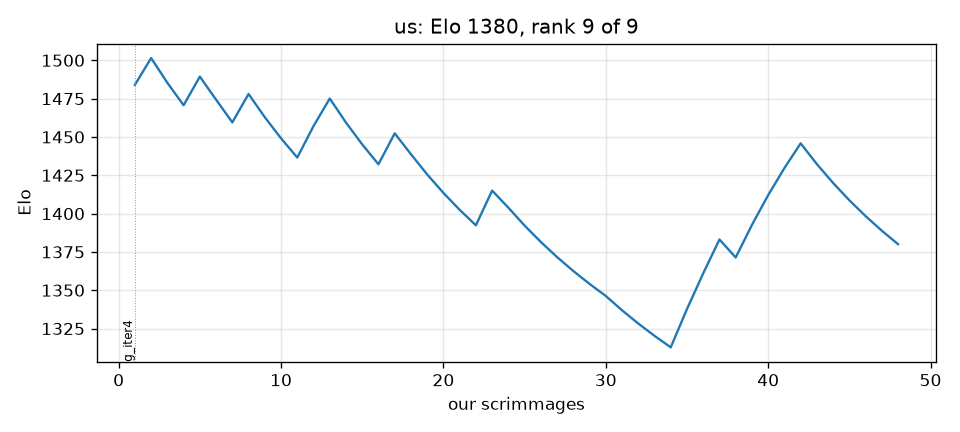
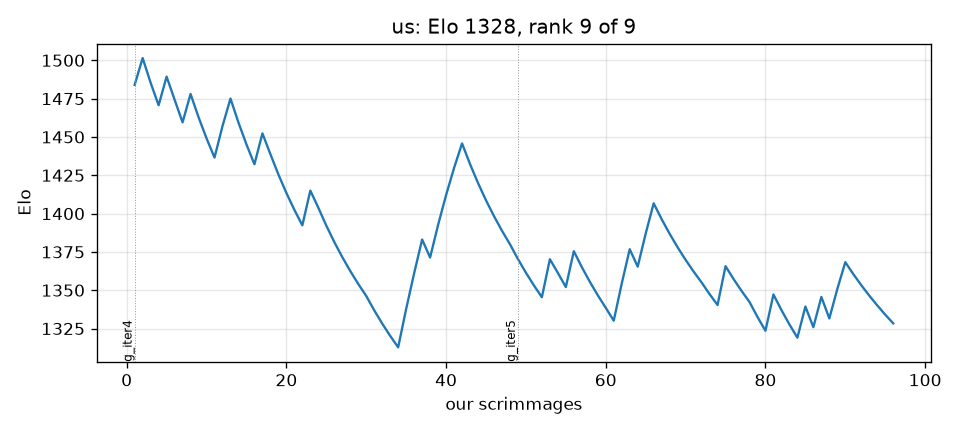
g_iter5 ladder block: 12/48 (25%) against g_iter4's 14/48 (29%), same opponents; accept stands (no veto) but self-play improvement did not transfer -- recorded as the finding
Claude-Session: https://claude.ai/code/session_01VgeNHsn9ncLsLui8RaK6L7

diff --git a/progress/ELO.md b/progress/ELO.md
@@ -1,17 +1,17 @@
 # Elo ladder
 
-48 scrimmages (ours only); K=32 from 1500; our team is **us**: rank 9 of 9 rated bots, Elo 1380, 48 games; 57 bots not yet met.
+96 scrimmages (ours only); K=32 from 1500; our team is **us**: rank 9 of 9 rated bots, Elo 1328, 96 games; 57 bots not yet met.
 
 | rank | bot | Elo | games | W-L (theirs) |
 |---|---|---|---|---|
-| 1 | rzhan11.sprint2 | 1566 | 6 | 6-0 |
-| 2 | iliao2345.attacker | 1558 | 6 | 6-0 |
-| 3 | awesomelemonade.sprint1bot | 1535 | 6 | 5-1 |
-| 4 | 123kevinlee.atomFinalQualifier | 1526 | 6 | 4-2 |
-| 5 | arya-k.quals_v1 | 1518 | 6 | 4-2 |
-| 6 | Scott-Poole.spright8 | 1517 | 6 | 4-2 |
-| 7 | jmerle.camel_case_v7_sprint_2 | 1485 | 6 | 4-2 |
-| 8 | max-titov.sprintplayer | 1415 | 6 | 1-5 |
-| 9 | **us** | 1380 | 48 | 14-34 |
+| 1 | rzhan11.sprint2 | 1606 | 12 | 12-0 |
+| 2 | awesomelemonade.sprint1bot | 1587 | 12 | 11-1 |
+| 3 | iliao2345.attacker | 1570 | 12 | 11-1 |
+| 4 | 123kevinlee.atomFinalQualifier | 1544 | 12 | 9-3 |
+| 5 | Scott-Poole.spright8 | 1540 | 12 | 9-3 |
+| 6 | jmerle.camel_case_v7_sprint_2 | 1509 | 12 | 9-3 |
+| 7 | arya-k.quals_v1 | 1450 | 12 | 6-6 |
+| 8 | max-titov.sprintplayer | 1366 | 12 | 3-9 |
+| 9 | **us** | 1328 | 96 | 26-70 |
 
 Not yet met (1500 until their first game against us): Ahhorse1.WinstonPlayer, Aryan34.bot, Aryo-Patel.finalBot, BSreenivas0713.musketeerplayerfinal, BattlecodeTeam4.robotalpha, BoluAdubi.bot1, BryceKan3.bot.tournament.sprint, ChiragKalra.gen5, IvanGeffner.thirtyone, JCRaymond.bot.tournament.sprint, JasonYe4273.finals, Mahpare.hackatrainee_v1, OliverMKing.bot.tournament.sprint, SLaGrave.AlphaCentauri, Sihal3.cavShieldv705, StoneT2000.sprinttuna, TeamSerpentine.mars, Techno-coder.muckrakers, TylerQube.sandmenplayer, Victoriano012.SprintBot2, VittalT.final_usqualplayer3_subm, abhishekshree.bot2, aidan-mundy.final_usqualplayer3_subm, alextheimer.player, ama29.v6, angelaloh09.camelmanplayer, anshgs.ho4, astelmach20.piedPiper, davidfang00.Rushbot3, diegorod9000.Newcomer, dominicmkennedy.playerj3, edlwang.sprint2, ehiggins98.initialbot, evan-schott.bugplayer, iyzg.sbot17, jay20162016.ecobot, jjtippetts.influencerforceplayer, mama4294.Maloneplayer, mhahn2003.finals, mhbtz1.presprint, mvpatel2000.biden, naalit.mukrush, nickel-dime.piedPiper, nsortur.piedPiper, paulmure.sprintplayer, pranayagra.finalbot11, qawsedrftgzh.battlecode2021, raytran.dlmoreram010921, rqi3.qualification_bot, ryanbai1412.sprint_0, saivivekvenna.Ba_ba_booie, sasank02.framework3_mr_density, thevaliantthird.bot1, unai-gurbindo.camelmanplayer, winkelmantanner.tannerplayer, woodstockcs.fanandflag, wstan2001.boundfinder

diff --git a/TRAINING_LOG.md b/TRAINING_LOG.md
@@ -2358,6 +2358,42 @@ says: the stack is snapshotted when the *stack* reaches ACCEPT.
 Post-accept: archetype regression check and a 48-game scrimmage block as
 the new submission (the block moves the team rating; candidates never do).
 
+**The ladder does not confirm the mirror (2026-09-19 00:10 UTC).**
+`g_iter5`'s 48-game block against the same eight opponents:
+
+| build | block | rate | 95% |
+|---|---|---|---|
+| `g_iter4` | 14/48 | 29.2% | 18.2-43.2% |
+| `g_iter5` | 12/48 | 25.0% | 14.9-38.8% |
+
+Two games *worse*, deep inside noise in both directions; per opponent
+`g_iter5` went arya-k 4/6 and max-titov 4/6 but 0/6 against both rzhan11
+and awesomelemonade. Team Elo 1328 after 96 scrimmages, rank 9 of 9 rated
+bots. The archetype regression was clean (22/24 against 20/24, and 7/8
+against the muckraker rush where the fix should show).
+
+**The accept stands** -- the pre-registered veto is the new build's Wilson
+*upper* bound falling below the incumbent's point estimate, and 38.8% is
+far above 29.2%, so nothing here licenses a revert -- but the tension is
+the finding, and it is recorded, not explained away:
+
+- The gate is **self-play**. A build that beats its own predecessor 69% of
+  the time has not been shown to beat anyone else. This is the known
+  failure mode of self-play testing and we have now seen it once.
+- 48 games cannot resolve a 4-point difference, so the honest statement is
+  **"no detectable change on the ladder"**, not "it got worse".
+- The economy fix is real (slanderers hold at the cap instead of
+  collapsing to 3) and beats the muckraker archetype more often. It may
+  simply not be the binding constraint against opponents who are 4.4x
+  ahead on income for other reasons.
+
+*Method change under consideration, not yet adopted:* the accept gate may
+need a ladder component -- e.g. an SPRT against a *fixed strong external
+opponent* rather than against ourselves. That costs the same per game and
+measures the objective directly. To be decided before the next candidate,
+because running more self-play candidates risks accumulating changes that
+only beat our own past.
+
 ## Standing tables (updated in place)
 
 ### Functional-area map
